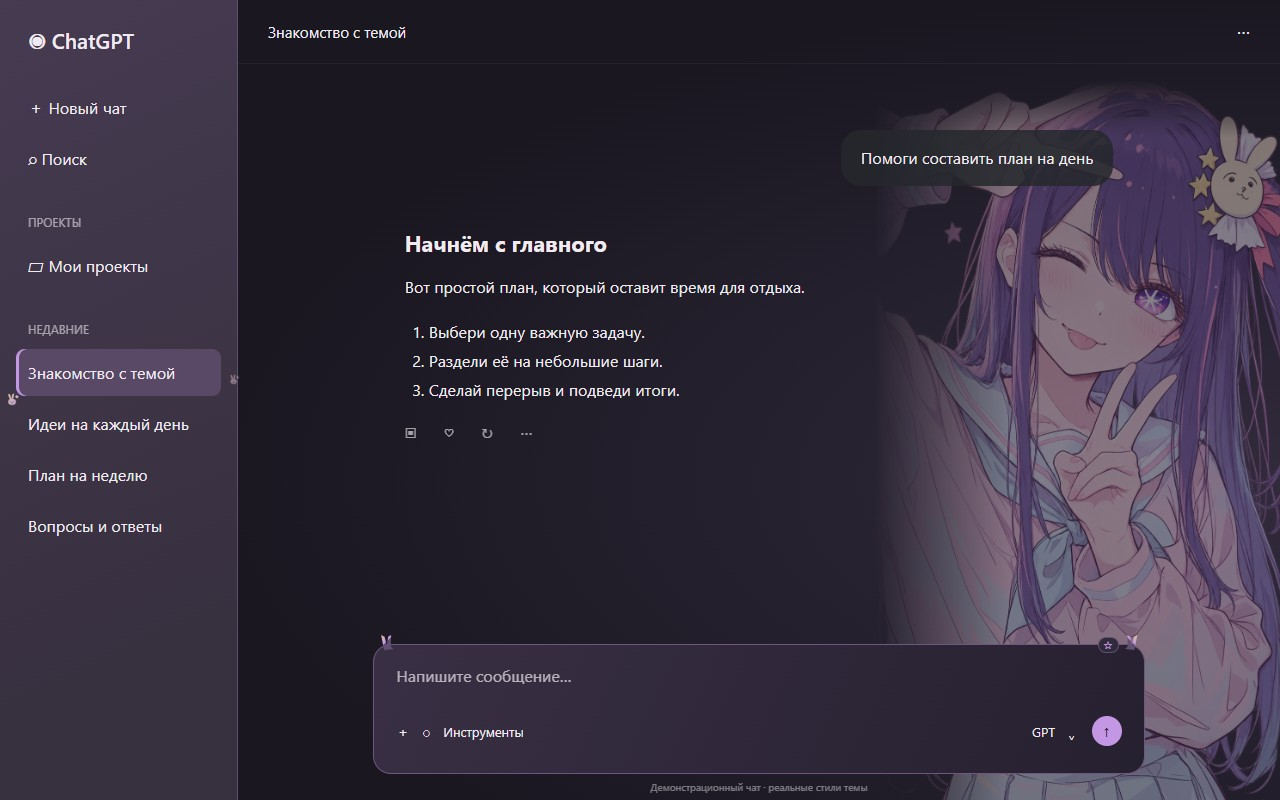
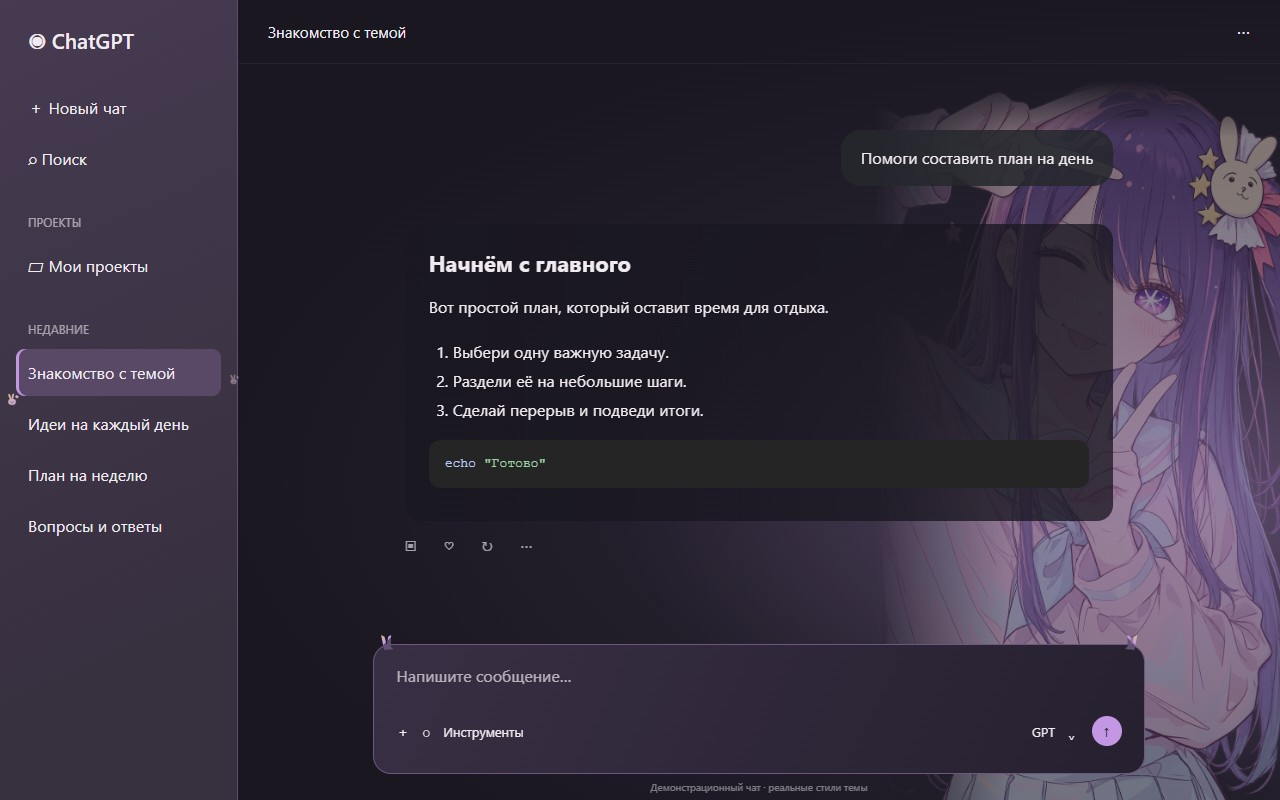
Release 2.5.10 with spacious answer panels and neutral code backgrounds

diff --git a/README.md b/README.md
@@ -8,26 +8,25 @@
 
 **Для обычного использования клонировать репозиторий не нужно.** Скачайте готовую сборку для своей системы. Git, Node.js и Codex App Manager для её запуска не нужны. Совместимый ChatGPT должен быть установлен отдельно.
 
-Прямые ссылки на **версию 2.5.9**:
+Прямые ссылки на **версию 2.5.10**:
 
 | Система | Скачать | Как запустить |
 | --- | --- | --- |
-| **Windows x64** | [Готовая папка ZIP](https://github.com/ZLHRS/codex-anime-themes/releases/download/v2.5.9/ZLHRS-Theme-Studio-2.5.9-win-x64-portable.zip) | Распакуйте всю папку и откройте **ZLHRS Theme Studio.exe**. Установка не нужна. |
-| **Mac — Apple Silicon (M1/M2/M3/M4 и новее)** | [ZIP для Apple Silicon](https://github.com/ZLHRS/codex-anime-themes/releases/download/v2.5.9/ZLHRS-Theme-Studio-2.5.9-mac-arm64.zip) | Распакуйте архив, перенесите **ZLHRS Theme Studio.app** в «Программы» и откройте. |
-| **Mac — Intel** | [ZIP для Intel](https://github.com/ZLHRS/codex-anime-themes/releases/download/v2.5.9/ZLHRS-Theme-Studio-2.5.9-mac-x64.zip) | Распакуйте архив, перенесите **ZLHRS Theme Studio.app** в «Программы» и откройте. |
-| **Linux x64 — без установки** | [AppImage](https://github.com/ZLHRS/codex-anime-themes/releases/download/v2.5.9/ZLHRS-Theme-Studio-2.5.9-linux-x86_64.AppImage) | В свойствах файла разрешите выполнение как программы, затем запустите его. |
-| **Linux x64 — Debian/Ubuntu** | [Пакет DEB](https://github.com/ZLHRS/codex-anime-themes/releases/download/v2.5.9/ZLHRS-Theme-Studio-2.5.9-linux-amd64.deb) | Установите пакет через менеджер приложений и откройте Studio. |
+| **Windows x64** | [Готовая папка ZIP](https://github.com/ZLHRS/codex-anime-themes/releases/download/v2.5.10/ZLHRS-Theme-Studio-2.5.10-win-x64-portable.zip) | Распакуйте всю папку и откройте **ZLHRS Theme Studio.exe**. Установка не нужна. |
+| **Mac — Apple Silicon (M1/M2/M3/M4 и новее)** | [ZIP для Apple Silicon](https://github.com/ZLHRS/codex-anime-themes/releases/download/v2.5.10/ZLHRS-Theme-Studio-2.5.10-mac-arm64.zip) | Распакуйте архив, перенесите **ZLHRS Theme Studio.app** в «Программы» и откройте. |
+| **Mac — Intel** | [ZIP для Intel](https://github.com/ZLHRS/codex-anime-themes/releases/download/v2.5.10/ZLHRS-Theme-Studio-2.5.10-mac-x64.zip) | Распакуйте архив, перенесите **ZLHRS Theme Studio.app** в «Программы» и откройте. |
+| **Linux x64 — без установки** | [AppImage](https://github.com/ZLHRS/codex-anime-themes/releases/download/v2.5.10/ZLHRS-Theme-Studio-2.5.10-linux-x86_64.AppImage) | В свойствах файла разрешите выполнение как программы, затем запустите его. |
+| **Linux x64 — Debian/Ubuntu** | [Пакет DEB](https://github.com/ZLHRS/codex-anime-themes/releases/download/v2.5.10/ZLHRS-Theme-Studio-2.5.10-linux-amd64.deb) | Установите пакет через менеджер приложений и откройте Studio. |
 
 **Windows ZIP предназначен только для Windows.** Для Mac и Linux используйте соответствующие ссылки. Тип процессора Mac можно посмотреть в меню Apple → «Об этом Mac».
 
 [Все выпуски и последние версии](https://github.com/ZLHRS/codex-anime-themes/releases/latest).
 
-## Что нового в 2.5.9
+## Что нового в 2.5.10
 
-- Blue Cat Nocturne и Moonlit Repose используют новые изображения повышенного качества.
-- Картинка Blue Cat Nocturne занимает всю высоту от верхнего до нижнего края, сохраняет пропорции и мягкий переход слева.
-- Положение, яркость и оформление Moonlit Repose сохранены. Новые изображения и исправления включены во все установочные архивы и доступны через «Подтянуть изменения».
-- Сохранены все 27 тем, включая Tidal Halo, и улучшения предыдущего выпуска.
+- Во всех 27 темах увеличены отступы вокруг текста ответа: подложка стала просторнее и закрывает всю его высоту. На узких экранах отступы компактнее.
+- Убрана цветная полоса внутри блоков кода. Фон нейтральный тёмный, цвета синтаксиса сохранены. Исправление работает и с выключенными декоративными эффектами.
+- Сохранены новые изображения Blue Cat Nocturne и Moonlit Repose, а также картинка Blue Cat на всю высоту.
 
 ## Как включить тему
 
@@ -60,11 +59,11 @@
 
 Во вкладке «Инструкция» внутри приложения доступны короткие шаги настройки.
 
-## Настройки оформления (2.5.9)
+## Настройки оформления (2.5.10)
 
 В разделе «Настроить выбранную тему» доступны яркость, размер и положение картинки по горизонтали и вертикали. Нажмите **«Применить настройки»**: значения сохранятся отдельно для выбранной темы и восстановятся после перезапуска. **«Сбросить настройки этой темы»** вернёт исходное оформление только для неё. В теме с двумя персонажами обе картинки настраиваются вместе.
 
-У каждой темы свой декоративный эффект: лунный свет, бабочки, цветы, водяные блики, кольца энергии или подсветка деталей. Переключатель **«Анимации»** оставляет эффекты неподвижными; **«Декоративные эффекты»** полностью отключает добавленные украшения. Системная настройка уменьшения движения также учитывается. Настройки включены в готовые сборки 2.5.9.
+У каждой темы свой декоративный эффект: лунный свет, бабочки, цветы, водяные блики, кольца энергии или подсветка деталей. Переключатель **«Анимации»** оставляет эффекты неподвижными; **«Декоративные эффекты»** полностью отключает добавленные украшения. Системная настройка уменьшения движения также учитывается. Настройки включены в готовые сборки 2.5.10.
 
 ## Готовая сборка или исходники — в чём разница
 
